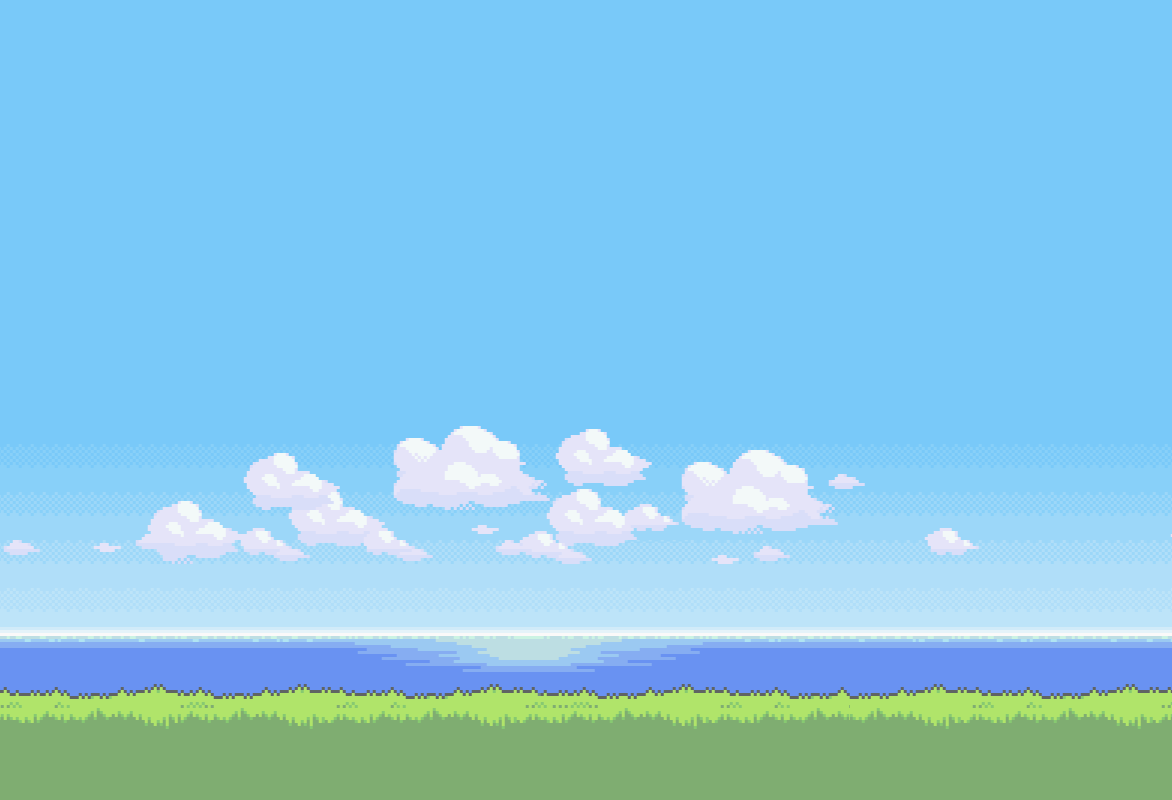
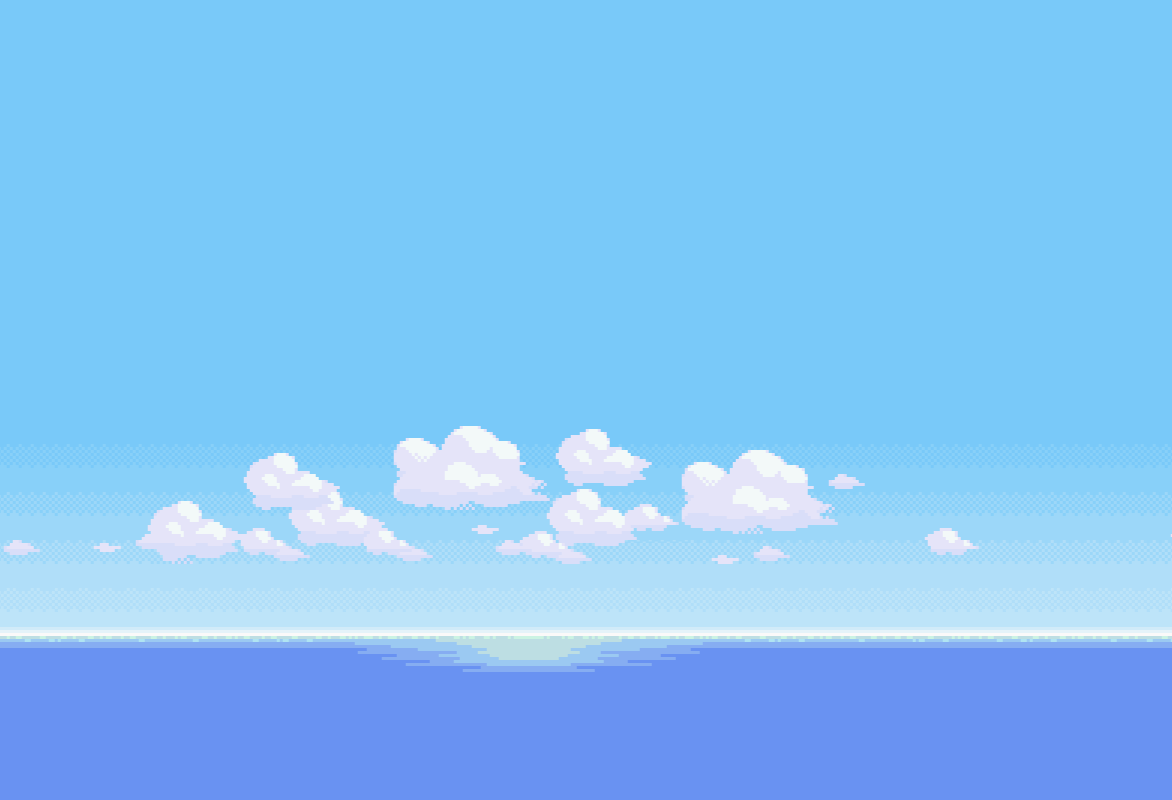
Split background into 2 bg (bg, fg) for parallax

Changed region(s): [[0.0, 0.8438, 1.0, 1.0]]

diff --git a/app/src/main/java/com/elevationstudios/gladerunner/LoadingScreen.java b/app/src/main/java/com/elevationstudios/gladerunner/LoadingScreen.java
@@ -18,8 +18,13 @@ public class LoadingScreen extends Screen {
         Graphics g = game.getGraphics();
 
         //TODO: Move all assets - buttons, images, everything, to Assets and use this instead
-
+        //Background non-moving
         Assets.background = g.newPixmap("background.png", PixmapFormat.RGB565);
+
+        //1 = bg, 2 = fg
+        Assets.bg1 = g.newPixmap("bg1.png", PixmapFormat.RGB565);
+        Assets.bg2 = g.newPixmap("bg2.png", PixmapFormat.RGB565);
+
         //Buttons
         Assets.buyButton = g.newPixmap("buyButton.png", PixmapFormat.ARGB4444);
         Assets.backButton = g.newPixmap("backButton.png", PixmapFormat.ARGB4444);

diff --git a/app/src/main/java/com/elevationstudios/gladerunner/Assets.java b/app/src/main/java/com/elevationstudios/gladerunner/Assets.java
@@ -17,6 +17,8 @@ import java.util.Map;
 public class Assets {
 
     public static Pixmap background;
+    public static Pixmap bg1;
+    public static Pixmap bg2;
 
     //Buttons
     public static Pixmap buyButton;

diff --git a/app/src/main/java/com/elevationstudios/gladerunner/Background.java b/app/src/main/java/com/elevationstudios/gladerunner/Background.java
@@ -7,6 +7,7 @@ public class Background {
     public int xLocation;
     public Pixmap background;
 
+
     public Background(int xLoc, Pixmap map) {
         this.xLocation  = xLoc;
         this.background = map;
